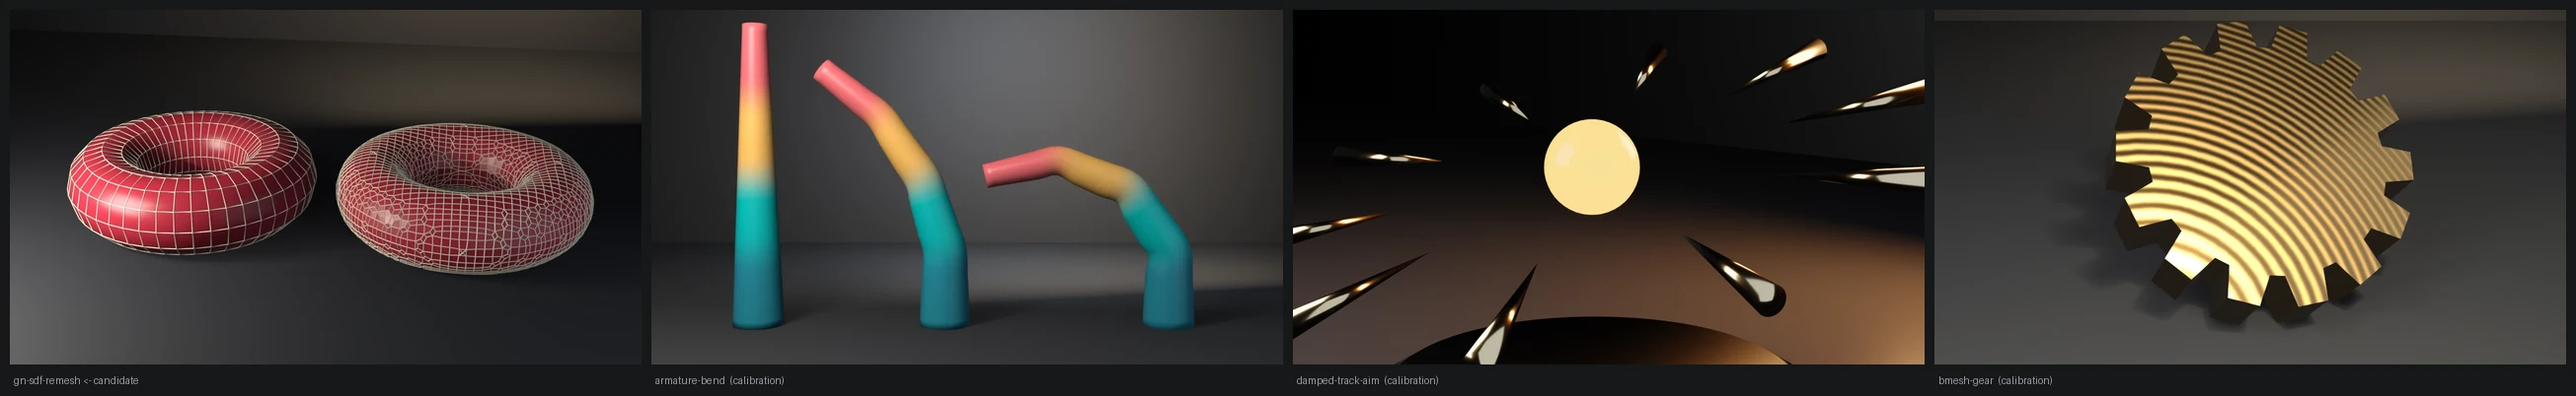
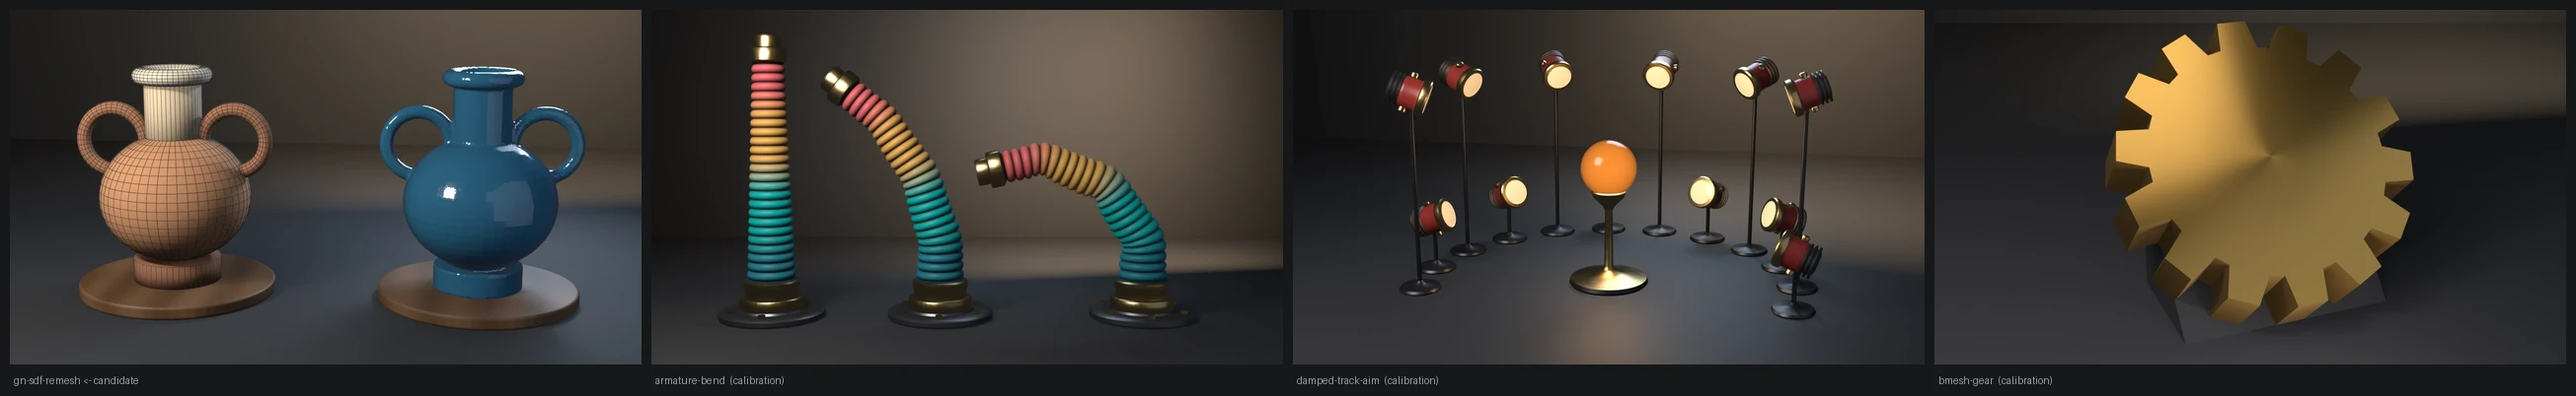
fix(examples): redesign gn-sdf-remesh as a kitbashed vase fused by the SDF tree
The still showed two red tori under wire cages. Now a vase is kitbashed from
overlapping primitives (foot, belly, neck, lip, two handles) in five clay tones
under a cage of its own ring-topology edges. Beside it the identical kit runs
through the same build_remesh_via_sdf tree (0.018 voxels, cobalt glaze carried
by Set Material) and comes out one fused, filleted, watertight shell. Both
stand on walnut bats. The torus the check measures leaves the stage first;
the check, the tree and the falsifier are unchanged. The render path now runs
the gallery_framing gate (exit 10), which it previously skipped.

Evidence (live runs, local):
- .scratch/blender-5.2.1-windows-x64/blender.exe (Blender 5.2.1 LTS):
  check-only exit 0, link_valid=True base_vcount=576 eval_vcount=3256
  materials=['Ceramic']; --no-sdf exits 3 ("SDF remesh produced
  no/unchanged geometry"). Render: kit_verts=3170 fused_verts=42260.
- .scratch/blender-4.5.11-windows-x64/blender.exe (Blender 4.5.11 LTS):
  check + --output exit 0, eval_vcount=3400, fused_verts=42058, framing_ok.
- Framing: fill x=0.806 y=0.661; margins l=0.106 r=0.088 b=0.094 t=0.150.
- Contact sheet: candidate luma 0.261 / stage 0.229 / warmth +0.126 /
  sat 0.269, against armature-bend 0.243/0.192/-0.144/0.237, damped-track-aim
  0.237/0.218/+0.105/0.178, and bmesh-gear 0.236/0.177/+0.303/0.250.

diff --git a/examples/gn-sdf-remesh/gn_sdf_remesh.py b/examples/gn-sdf-remesh/gn_sdf_remesh.py
@@ -17,6 +17,11 @@ both builds.
 """
 import bpy, sys, os, math, argparse
 
+# Shared Layer 1 framing measurement (render path only) -- see
+# gallery_framing.py for the __file__-relative import shim this relies on.
+sys.path.insert(0, os.path.join(os.path.dirname(os.path.abspath(__file__)), os.pardir))
+import gallery_framing  # noqa: E402
+
 def get_eevee_engine_id():
     return 'BLENDER_EEVEE' if bpy.app.version >= (5, 0, 0) else 'BLENDER_EEVEE_NEXT'
 
@@ -55,9 +60,125 @@ def build():
     obj.data.materials.append(mat)
     return obj
 
+def build_vase_kit(name):
+    """Render-only input: a vase blocked out the way a modeller kitbashes it --
+    foot, belly, neck, lip and two handles as separate primitives that simply
+    overlap, joined into one mesh with interior faces and hard intersection
+    seams everywhere. Each part keeps its own bisque tone so the seams read.
+    The same `build_remesh_via_sdf` tree then fuses it into one watertight
+    shell: the thing an SDF remesh is actually for."""
+    tones = [("Clay.Foot", (0.30, 0.13, 0.07)), ("Clay.Belly", (0.62, 0.30, 0.15)),
+             ("Clay.Neck", (0.78, 0.62, 0.42)), ("Clay.Lip", (0.86, 0.78, 0.62)),
+             ("Clay.Handle", (0.45, 0.20, 0.10))]
+    mats = []
+    for mname, rgb in tones:
+        m = bpy.data.materials.new(mname); m.use_nodes = True
+        mb = m.node_tree.nodes.get('Principled BSDF')
+        mb.inputs['Base Color'].default_value = (*rgb, 1)
+        mb.inputs['Roughness'].default_value = 0.85   # unfired clay: matte
+        mats.append(m)
+    parts = []
+
+    def add(op, mat_i, **kw):
+        op(**kw)
+        ob = bpy.context.active_object
+        ob.data.materials.append(mats[mat_i])
+        for poly in ob.data.polygons:
+            poly.use_smooth = True
+        parts.append(ob)
+        return ob
+
+    add(bpy.ops.mesh.primitive_cylinder_add, 0, vertices=48, radius=0.42, depth=0.22,
+        location=(0, 0, 0.11))
+    belly = add(bpy.ops.mesh.primitive_uv_sphere_add, 1, segments=48, ring_count=24,
+                radius=0.72, location=(0, 0, 0.82))
+    belly.scale = (1.0, 1.0, 0.86)
+    add(bpy.ops.mesh.primitive_cylinder_add, 2, vertices=40, radius=0.27, depth=0.72,
+        location=(0, 0, 1.62))
+    add(bpy.ops.mesh.primitive_torus_add, 3, major_segments=48, minor_segments=16,
+        major_radius=0.30, minor_radius=0.075, location=(0, 0, 1.98))
+    for sx in (-1.0, 1.0):
+        add(bpy.ops.mesh.primitive_torus_add, 4, major_segments=40, minor_segments=14,
+            major_radius=0.30, minor_radius=0.065, location=(sx * 0.58, 0, 1.36),
+            rotation=(math.radians(90), 0, 0))
+    with bpy.context.temp_override(active_object=parts[0], selected_editable_objects=parts,
+                                   selected_objects=parts):
+        bpy.ops.object.join()
+    kit = parts[0]
+    kit.name = name
+    return kit
+
+
 def render_still(obj, path, engine):
     import bmesh
     sc = bpy.context.scene
+    # The torus the check measured leaves the stage; the render proves the
+    # same tree on a subject where fusing is visible.
+    bpy.context.collection.objects.unlink(obj)
+
+    kit = build_vase_kit("VaseKit")
+    glaze = bpy.data.materials.new("Glaze"); glaze.use_nodes = True
+    g = glaze.node_tree.nodes.get('Principled BSDF')
+    g.inputs['Base Color'].default_value = (0.03, 0.16, 0.30, 1)   # cobalt glaze
+    g.inputs['Roughness'].default_value = 0.12
+    try:
+        g.inputs['Coat Weight'].default_value = 0.6
+    except KeyError:
+        pass
+    fused = bpy.data.objects.new("VaseFused", kit.data.copy())
+    bpy.context.collection.objects.link(fused)
+    # Same builder, finer voxels than the check's 0.1 so the fused shell
+    # holds the handles' profile; the glaze rides in on Set Material.
+    tree, _ok = build_remesh_via_sdf(voxel_size=0.018, material=glaze)
+    fused.modifiers.new("sdf", 'NODES').node_group = tree
+    kit.location.x = -1.45
+    fused.location.x = 1.45
+    dg = bpy.context.evaluated_depsgraph_get()
+    em = fused.evaluated_get(dg).to_mesh()
+    fused_v = len(em.vertices)
+    zmin = min(v.co.z for v in em.vertices)
+    fused.evaluated_get(dg).to_mesh_clear()
+    fused.location.z = -zmin + 0.12
+    kit.location.z = -min(v.co.z for v in kit.data.vertices) + 0.12
+    # the kit's own edges as a thin dark cage: UV rings and torus loops
+    # running straight through each other, the topology the remesh replaces
+    cage_mat = bpy.data.materials.new("Cage"); cage_mat.use_nodes = True
+    cm = cage_mat.node_tree.nodes.get('Principled BSDF')
+    cm.inputs['Base Color'].default_value = (0.05, 0.03, 0.02, 1)
+    cm.inputs['Roughness'].default_value = 0.6
+    cage = bpy.data.objects.new("VaseKitCage", kit.data.copy())
+    cage.data.materials.clear(); cage.data.materials.append(cage_mat)
+    for poly in cage.data.polygons:
+        poly.material_index = 0
+    cage.location = kit.location
+    wire = cage.modifiers.new("cage", 'WIREFRAME')
+    wire.thickness = 0.005; wire.offset = 1.0; wire.use_even_offset = True
+    bpy.context.collection.objects.link(cage)
+    print(f"render: kit_verts={len(kit.data.vertices)} fused_verts={fused_v} "
+          f"kit_mats={len(kit.data.materials)}")
+
+    # walnut potter's bats under each piece
+    wood = bpy.data.materials.new("Walnut"); wood.use_nodes = True
+    wn = wood.node_tree
+    wb = wn.nodes.get('Principled BSDF')
+    wave = wn.nodes.new('ShaderNodeTexWave'); wave.inputs['Scale'].default_value = 1.2
+    wave.inputs['Distortion'].default_value = 1.5
+    wave.inputs['Detail'].default_value = 4.0
+    ramp = wn.nodes.new('ShaderNodeValToRGB')
+    ramp.color_ramp.elements[0].color = (0.13, 0.065, 0.03, 1)
+    ramp.color_ramp.elements[1].color = (0.20, 0.105, 0.05, 1)
+    wn.links.new(wave.outputs['Fac'], ramp.inputs['Fac'])
+    wn.links.new(ramp.outputs['Color'], wb.inputs['Base Color'])
+    wb.inputs['Roughness'].default_value = 0.5
+    bats = []
+    for x in (-1.45, 1.45):
+        bpy.ops.mesh.primitive_cylinder_add(vertices=64, radius=0.95, depth=0.12,
+                                            location=(x, 0, 0.06))
+        bat = bpy.context.active_object
+        bat.data.materials.append(wood)
+        bev = bat.modifiers.new("bev", 'BEVEL'); bev.width = 0.025; bev.segments = 3
+        bats.append(bat)
+
     fme = bpy.data.meshes.new("Floor"); bm = bmesh.new()
     try:
         bmesh.ops.create_grid(bm, x_segments=1, y_segments=1, size=30.0); bm.to_mesh(fme)
@@ -73,69 +194,32 @@ def render_still(obj, path, engine):
     wall.rotation_euler = (1.5708, 0, 0); bpy.context.collection.objects.link(wall)
     w = bpy.data.worlds.new("W"); w.use_nodes = True
     w.node_tree.nodes["Background"].inputs[0].default_value = (0.02, 0.021, 0.025, 1); sc.world = w
-    # Input beside output. Alone, the remeshed torus read as a glossy inner
-    # tube with blotchy highlights: nothing said "remeshed". The source torus
-    # (a modifier-free copy of the same datablock) on the left and the SDF
-    # result on the right, each under a cage of its own edges, show the
-    # thing the check measures: UV-ring topology in, voxel-grid topology
-    # out. Render-path scaffolding only; the check ran before this.
-    obj.location.x = 1.85
-    src = bpy.data.objects.new("SourceTorus", obj.data.copy())
-    src.location = (-1.85, obj.location.y, obj.location.z)
-    bpy.context.collection.objects.link(src)
-    # build() centres the torus at z=0.55 with a 0.5 minor radius, so both
-    # hovered 5 cm over the floor. Ground each on its own measured bottom:
-    # the SDF surface is not exactly the source surface.
-    dg0 = bpy.context.evaluated_depsgraph_get()
-    em = obj.evaluated_get(dg0).to_mesh()
-    obj.location.z -= obj.location.z + min(v.co.z for v in em.vertices)
-    obj.evaluated_get(dg0).to_mesh_clear()
-    src.location.z = -min(v.co.z for v in src.data.vertices)
-    cage_mat = bpy.data.materials.new("Cage"); cage_mat.use_nodes = True
-    cb = cage_mat.node_tree.nodes.get('Principled BSDF')
-    cb.inputs['Base Color'].default_value = (0.92, 0.82, 0.62, 1)
-    cb.inputs['Roughness'].default_value = 0.4
-    cages = []
-    dg = bpy.context.evaluated_depsgraph_get()
-    for host, remeshed in ((src, False), (obj, True)):
-        # The remeshed cage is the evaluated result frozen into a plain mesh:
-        # a live copy of the tree would re-apply its Set Material and paint
-        # the cage crimson.
-        data = (bpy.data.meshes.new_from_object(obj.evaluated_get(dg))
-                if remeshed else obj.data.copy())
-        cage = bpy.data.objects.new(host.name + "Cage", data)
-        cage.data.materials.clear(); cage.data.materials.append(cage_mat)
-        for poly in cage.data.polygons:
-            poly.material_index = 0
-        cage.location = host.location
-        wire = cage.modifiers.new("cage", 'WIREFRAME')
-        wire.thickness = 0.012; wire.offset = 1.0; wire.use_even_offset = True
-        wire.material_offset = 0
-        bpy.context.collection.objects.link(cage)
-        cages.append(cage)
-    # Softer than 0.16: at that gloss every voxel facet threw its own hard
-    # glint and the highlight broke into blocks that read as artifacts.
-    for m in obj.data.materials:
-        if m is not None and m.node_tree is not None:
-            bsdf = m.node_tree.nodes.get('Principled BSDF')
-            if bsdf is not None:
-                bsdf.inputs['Roughness'].default_value = 0.32
-    aim = bpy.data.objects.new("Aim", None); aim.location = (0, 0, 0.45); bpy.context.collection.objects.link(aim)
-    # Raised so both donut holes read, and pulled back to hold the pair.
-    cam = bpy.data.objects.new("cam", bpy.data.cameras.new("cam")); cam.location = (1.5, -10.8, 5.5)
+
+    aim = bpy.data.objects.new("Aim", None); aim.location = (0, 0, 1.05)
+    bpy.context.collection.objects.link(aim)
+    cam = bpy.data.objects.new("cam", bpy.data.cameras.new("cam"))
+    cam.data.lens = 58.0
+    cam.location = (0.9, -9.4, 3.0)
     bpy.context.collection.objects.link(cam); sc.camera = cam
     c = cam.constraints.new('TRACK_TO'); c.target = aim; c.track_axis = 'TRACK_NEGATIVE_Z'; c.up_axis = 'UP_Y'
-    # low raking warm key so every facet catches a distinct glint, faint cool
-    # fill (docs/VISUAL-STYLE.md)
-    for nm, loc, en, sz, col in [("K", (-5, -3.5, 2.8), 480, 3.0, (1.0, 0.96, 0.9)),
-                                 ("F2", (5, -4, 2), 110, 7.0, (0.75, 0.85, 1.0))]:
+
+    def light(nm, loc, en, sz, col, target=aim):
         ld = bpy.data.lights.new(nm, 'AREA'); ld.energy = en; ld.size = sz; ld.color = col
-        lo = bpy.data.objects.new(nm, ld); lo.location = loc; bpy.context.collection.objects.link(lo)
-        lc = lo.constraints.new('TRACK_TO'); lc.target = aim; lc.track_axis = 'TRACK_NEGATIVE_Z'; lc.up_axis = 'UP_Y'
-    # warm wedge raking the back wall, aimed past the torus at the wall
-    wd = bpy.data.lights.new("Wedge", 'AREA'); wd.energy = 380; wd.size = 6.0; wd.color = (1.0, 0.76, 0.5)
+        lo = bpy.data.objects.new(nm, ld); lo.location = loc
+        bpy.context.collection.objects.link(lo)
+        lc = lo.constraints.new('TRACK_TO'); lc.target = target
+        lc.track_axis = 'TRACK_NEGATIVE_Z'; lc.up_axis = 'UP_Y'
+    # shaped warm key, faint cool fill, cool rim for the glaze silhouette,
+    # warm wedge raking the back wall (docs/VISUAL-STYLE.md)
+    light("Key", (-4.5, -4.5, 5.0), 520, 3.0, (1.0, 0.95, 0.88))
+    light("Fill", (5, -4, 2.2), 90, 7.0, (0.75, 0.85, 1.0))
+    light("Rim", (2.5, 3.5, 4.0), 260, 2.5, (0.62, 0.78, 1.0))
+    wd = bpy.data.lights.new("Wedge", 'AREA'); wd.energy = 520; wd.size = 6.0
+    wd.color = (1.0, 0.72, 0.45)
     wo = bpy.data.objects.new("Wedge", wd); wo.location = (2.5, 5.5, 4.0)
-    wo.rotation_euler = (math.radians(-68), 0, math.radians(190)); bpy.context.collection.objects.link(wo)
+    wo.rotation_euler = (math.radians(-68), 0, math.radians(190))
+    bpy.context.collection.objects.link(wo)
+
     sc.render.engine = 'CYCLES' if engine == 'cycles' else get_eevee_engine_id()
     if sc.render.engine == 'CYCLES':
         try: sc.cycles.samples = 32
@@ -148,10 +232,17 @@ def render_still(obj, path, engine):
     # for a --background run with no .blend is the drive root, not the cwd.
     path = os.path.abspath(path)
     sc.render.image_settings.file_format = 'PNG'; sc.render.filepath = path
-    # AgX would wash the crimson toward brick (docs/VISUAL-STYLE.md)
+    # AgX would wash the cobalt glaze toward slate (docs/VISUAL-STYLE.md)
     sc.view_settings.view_transform = 'Standard'
+    bpy.context.view_layer.update()
+    # Layer 1 framing gate before the beauty render (exit 10 on violation)
+    fcode = gallery_framing.check_framing(sc, cam, hero=[kit, fused],
+                                          elements=[kit, fused] + bats, stage=[floor, wall])
+    if fcode:
+        return fcode
     bpy.ops.render.render(write_still=True)
-    return os.path.exists(path) and os.path.getsize(path) > 0
+    return 0 if os.path.exists(path) and os.path.getsize(path) > 0 else 4
+
 
 def main():
     argv = sys.argv[sys.argv.index("--") + 1:] if "--" in sys.argv else []
@@ -191,8 +282,11 @@ def main():
         print(f"ERROR: material '{src_mat.name}' dropped by remesh", file=sys.stderr); return 6
 
     if args.output:
-        if not render_still(obj, args.output, args.engine):
-            print("ERROR: render produced no file", file=sys.stderr); return 4
+        rcode = render_still(obj, args.output, args.engine)
+        if rcode:
+            if rcode == 4:
+                print("ERROR: render produced no file", file=sys.stderr)
+            return rcode
         print(f"rendered {args.output} ({os.path.getsize(args.output)} bytes)")
     print("gn-sdf-remesh OK")
     return 0

diff --git a/examples/gn-sdf-remesh/README.md b/examples/gn-sdf-remesh/README.md
@@ -16,6 +16,17 @@ input mesh's material is dropped on remesh (the result renders with the default 
 it inside the tree with a **Set Material** node (`GeometryNodeSetMaterial`) on the remeshed
 output — this example does that and asserts the material survives onto the evaluated mesh.
 
+## Render
+
+The check measures a torus; the still proves the same `build_remesh_via_sdf` tree on a
+subject where remeshing is visible. A vase is kitbashed from overlapping primitives (foot,
+belly, neck, lip, two handles), each in its own clay tone under a thin cage of its own edges,
+so the interior faces and hard intersection seams read. Beside it the identical kit runs
+through the tree (finer 0.018 voxels, cobalt glaze carried in by Set Material) and comes out
+one fused, watertight shell with the handles filleted into the belly. The torus leaves the
+stage before the render; the render path gates framing through `examples/gallery_framing.py`
+(exit 10).
+
 ## Run
 
 ```bash
@@ -44,6 +55,7 @@ against it.
 | 4 | `--output` produced no file |
 | 5 | Wrong-era EEVEE engine id was accepted |
 | 6 | Input material dropped by remesh |
+| 10 | Framing gate violation on the `--output` path (`gallery_framing`) |
 
 The `blender-smoke` workflow runs the check on Blender 5.2 LTS and 4.5 LTS
 (5.1 on the weekly cron, the `needs-5.1` PR label, or manual dispatch).

diff --git a/README.md b/README.md
@@ -561,7 +561,7 @@ exits 0 on all three. `--assume-present` is red only on 5.2.
 <table>
 <tr>
 <td width="46%" valign="middle">
-<a href="examples/gn-sdf-remesh/"><img src="examples/gn-sdf-remesh/preview.webp" alt="Geometry Nodes SDF remesh: a crimson ceramic torus with visible voxel-remesh facets, resting on a dark studio floor" /></a>
+<a href="examples/gn-sdf-remesh/"><img src="examples/gn-sdf-remesh/preview.webp" alt="Geometry Nodes SDF remesh: a vase kitbashed from overlapping clay primitives beside the same kit fused by the SDF remesh into one cobalt-glazed shell" /></a>
 </td>
 <td valign="middle">
 
